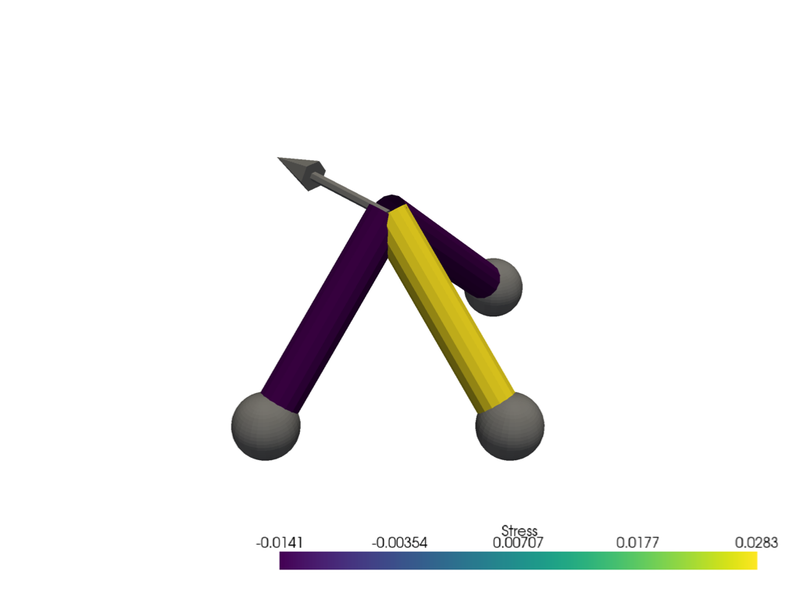
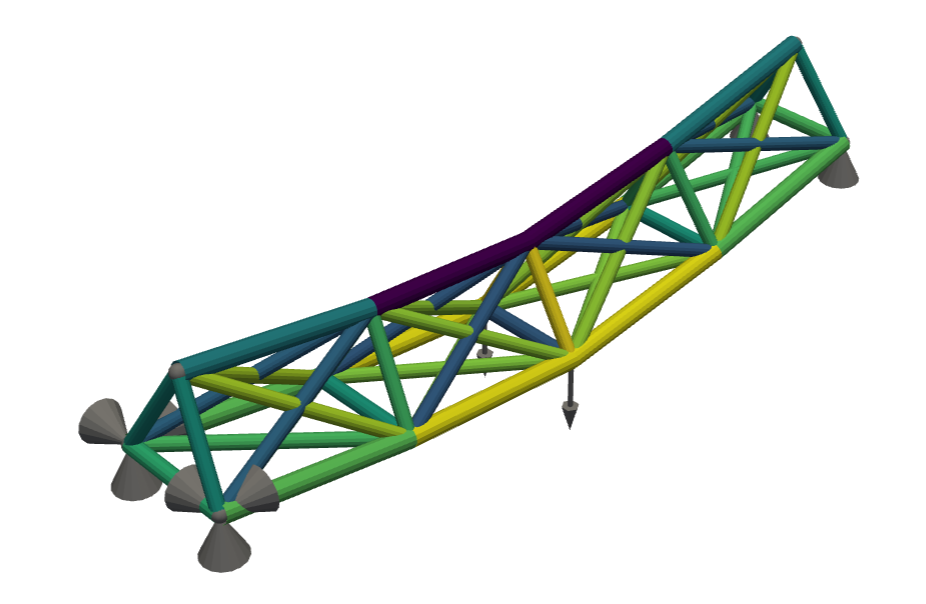
Improve 3D truss plots.

Changed region(s): [[0.0625, 0.06, 0.9375, 0.96], [0.3125, 0.87, 0.9688, 0.96]]

diff --git a/src/torchfem/truss.py b/src/torchfem/truss.py
@@ -114,8 +114,8 @@ class Truss(Mechanics):
                 deformed configuration. Defaults to 0.0 (undeformed).
             **kwargs: Forwarded to `plot2d` or `plot3d`, e.g.
                 `element_property` (per-element values coloring the bars),
-                `show_thickness` (line widths from cross-sectional areas), or
-                `node_labels` (annotate node indices, 2D only).
+                `show_thickness` (line widths from cross-sectional areas),
+                or `node_labels` (annotate node indices, 2D only).
         """
         if self.n_dim == 2:
             self.plot2d(u=u, **kwargs)
@@ -257,8 +257,8 @@ class Truss(Mechanics):
         self,
         u: float | Tensor = 0.0,
         element_property: dict[str, Tensor] | None = None,
-        force_size_factor: float = 0.5,
-        constraint_size_factor: float = 0.1,
+        force_size_factor: float = 0.2,
+        constraint_size_factor: float = 0.025,
         cmap: str = "viridis",
     ):
         pyvista.set_plot_theme("document")
@@ -288,7 +288,22 @@ class Truss(Mechanics):
                     tube.cell_data[key] = value[j].numpy()
                 pl.add_mesh(tube, scalars=key, cmap=cmap)
             else:
-                pl.add_mesh(tube, color="gray")
+                pl.add_mesh(tube)
+
+        # Spheres smoothing the joints where the tubes meet
+        for node in pos:
+            joint = pyvista.Sphere(radius=float(radii.mean()), center=node.numpy())
+            if element_property is not None:
+                pl.add_mesh(joint, color="gray")
+            else:
+                pl.add_mesh(joint)
+
+        # Boundary conditions
+        prescribed = torch.where(self.constraints, self.displacements, 0.0)
+
+        # In a deformed configuration the prescribed displacements are already
+        # visible in the plotted positions, so only their tips are drawn there.
+        deformed = isinstance(u, Tensor)
 
         # Forces scaled linearly, the largest arrow spanning force_size_factor
         magnitude = torch.linalg.norm(self.forces, dim=1)
@@ -301,33 +316,44 @@ class Truss(Mechanics):
                 color="gray",
             )
 
-        # Prescribed displacements to scale, with a dot marking the tip. In a
-        # deformed configuration the nodes already sit at the prescribed
-        # positions, so only the dot is drawn there.
-        prescribed = torch.where(self.constraints, self.displacements, 0.0)
+        radius = constraint_size_factor * size
+
+        # Prescribed displacements to scale, with a dot marking the tip
         magnitude = torch.linalg.norm(prescribed, dim=1)
         if magnitude.max() > 0.0:
             nonzero = magnitude > 0.0
-            if isinstance(u, Tensor):
+            if deformed:
                 ends = pos[nonzero]
             else:
                 ends = (pos + prescribed)[nonzero]
+                disp_dir = prescribed[nonzero] / magnitude.max()
                 pl.add_arrows(
-                    pos[nonzero].numpy(), prescribed[nonzero].numpy(), color="gray"
+                    pos[nonzero].numpy(),
+                    disp_dir.numpy(),
+                    mag=force_size_factor * size,
+                    color="gray",
                 )
-            pl.add_points(
-                ends.numpy(),
-                color="gray",
-                point_size=10.0,
-                render_points_as_spheres=True,
-            )
+            # Large enough to stay visible where the dot sits on a node
+            dot_radius = max(0.5 * radius, 1.25 * float(radii.max()))
+            for end in ends:
+                dot = pyvista.Sphere(radius=dot_radius, center=end.numpy())
+                pl.add_mesh(dot, color="gray")
 
-        # Constraints
+        # Constrained DOFs as cones pointing at the node, unless an arrow
+        # already shows them
         for i, constraint in enumerate(self.constraints):
-            if constraint.any():
-                sphere = pyvista.Sphere(
-                    radius=constraint_size_factor * size, center=pos[i].numpy()
+            for d in torch.nonzero(constraint).ravel():
+                if not deformed and prescribed[i, d] != 0.0:
+                    continue
+                axis = torch.zeros(3)
+                axis[d] = 1.0
+                cone = pyvista.Cone(
+                    center=(pos[i] - radius * axis).numpy(),
+                    direction=axis.numpy(),
+                    height=2.0 * radius,
+                    radius=radius,
+                    resolution=16,
                 )
-                pl.add_mesh(sphere, color="gray")
+                pl.add_mesh(cone, color="gray")
 
         pl.show(jupyter_backend="html")

diff --git a/CHANGELOG.md b/CHANGELOG.md
@@ -9,11 +9,13 @@
 - Theory docs section on viscous stabilization.
 - New example `basic/planar/stabilization.ipynb` tracing the snap-through of a shallow cylindrical roof (plane strain section of the Sabir and Lock benchmark), where viscous stabilization carries a load-controlled solve across the limit point onto the far branch. Linked in the docs example gallery and covered by the notebook tests.
 - Tests for viscous stabilization in `tests/test_stabilization.py`.
+- `Truss.plot3d(...)` accepts `node_property`, a dict of named nodal fields matching `Solid.plot(...)` and `Shell.plot(...)`. The last field colors the node spheres through `cmap`, sharing one color range and scalar bar.
+- 3D trusses draw a sphere of the mean bar radius at each node, smoothing the joints where tubes meet. It takes the bar color when no property is given, gray when `element_property` is given, and the colormap when `node_property` is given.
 
 ### Changed
 - The default `max_iter` of `solve(...)` is 10 instead of 100. Exceeding it now triggers an increment cutback rather than aborting the solve.
 - `Planar.plot(..., bcs=True)` draws boundary conditions differently. Force arrows are scaled linearly with their magnitude, so relative load sizes are visible, with the largest arrow spanning 10% of the plot. In the undeformed configuration, constrained DOFs with a prescribed non-zero displacement are drawn as an arrow to scale with a dot at its tip instead of a marker, which distinguishes them from the force arrows. In the deformed configuration, the arrow is omitted and the dot marks the position the node was pulled to. Plot limits now include the arrow tips.
-- `Truss.plot(...)` draws boundary conditions the same way as `Planar.plot(...)`. In 2D, force arrows are scaled linearly with the largest spanning 10% of the plot, prescribed non-zero displacements are drawn to scale with a dot at the tip in the undeformed configuration and as the dot alone in the deformed one, arrow widths follow the model size instead of a fixed 0.05, and plot limits include the arrow tips. In 3D, force arrows are scaled linearly with `force_size_factor * size` now setting the length of the largest arrow, and prescribed displacements are drawn the same way with a point at the tip.
+- `Truss.plot(...)` draws boundary conditions the same way as `Planar.plot(...)`. In 2D, force arrows are scaled linearly with the largest spanning 10% of the plot, prescribed non-zero displacements are drawn to scale with a dot at the tip in the undeformed configuration and as the dot alone in the deformed one, arrow widths follow the model size instead of a fixed 0.05, and plot limits include the arrow tips. In 3D, force arrows are scaled linearly with `force_size_factor * size` now setting the length of the largest arrow, prescribed displacements are drawn the same way with a sphere at the tip, and constrained DOFs are marked by one cone per fixed DOF pointing at the node, replacing the single sphere that previously marked a constrained node as a whole. `constraint_size_factor` now sets the cone base radius.
 
 ### Fixed
 - `Truss.plot(...)` no longer raises when a 3D truss has no applied forces.
